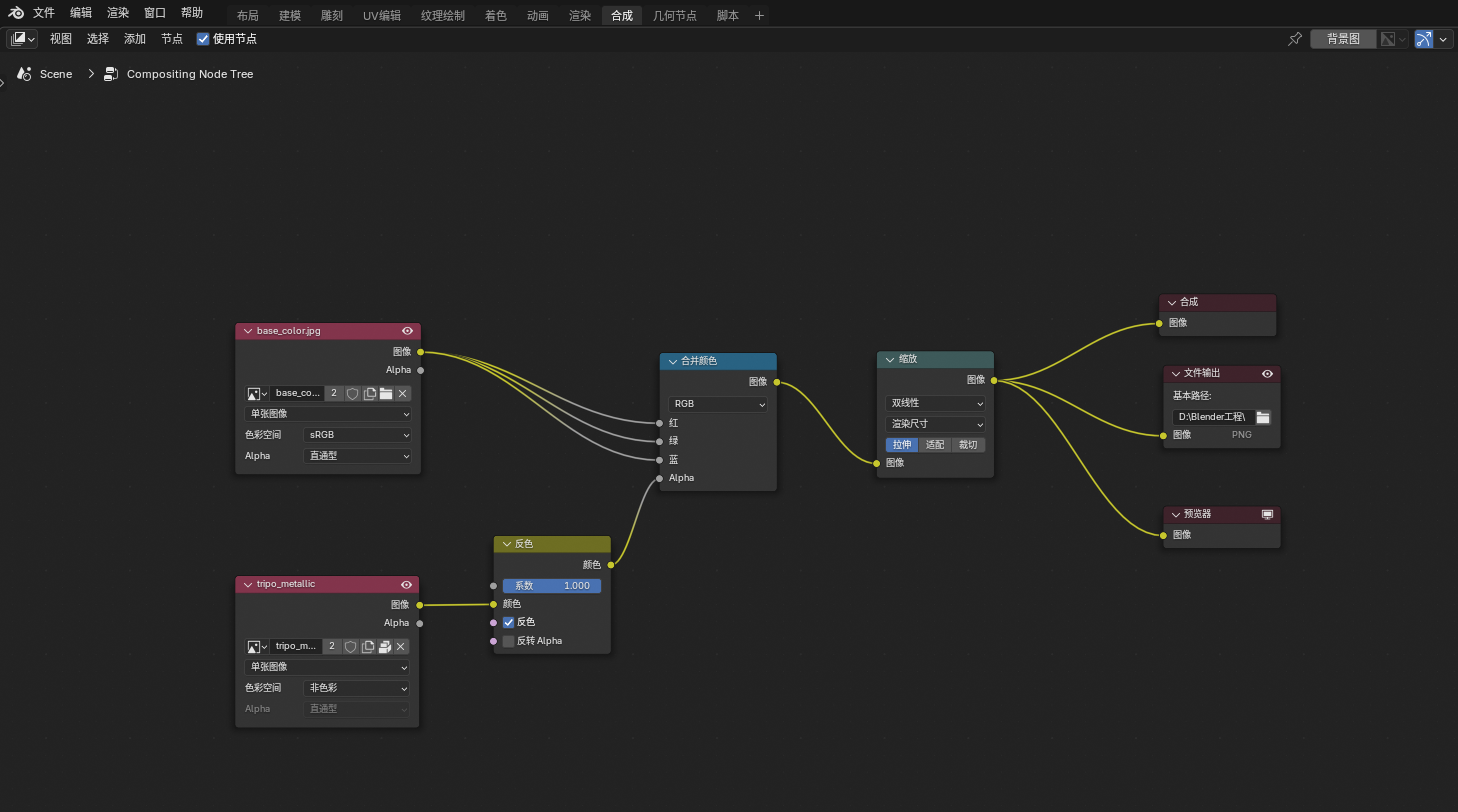
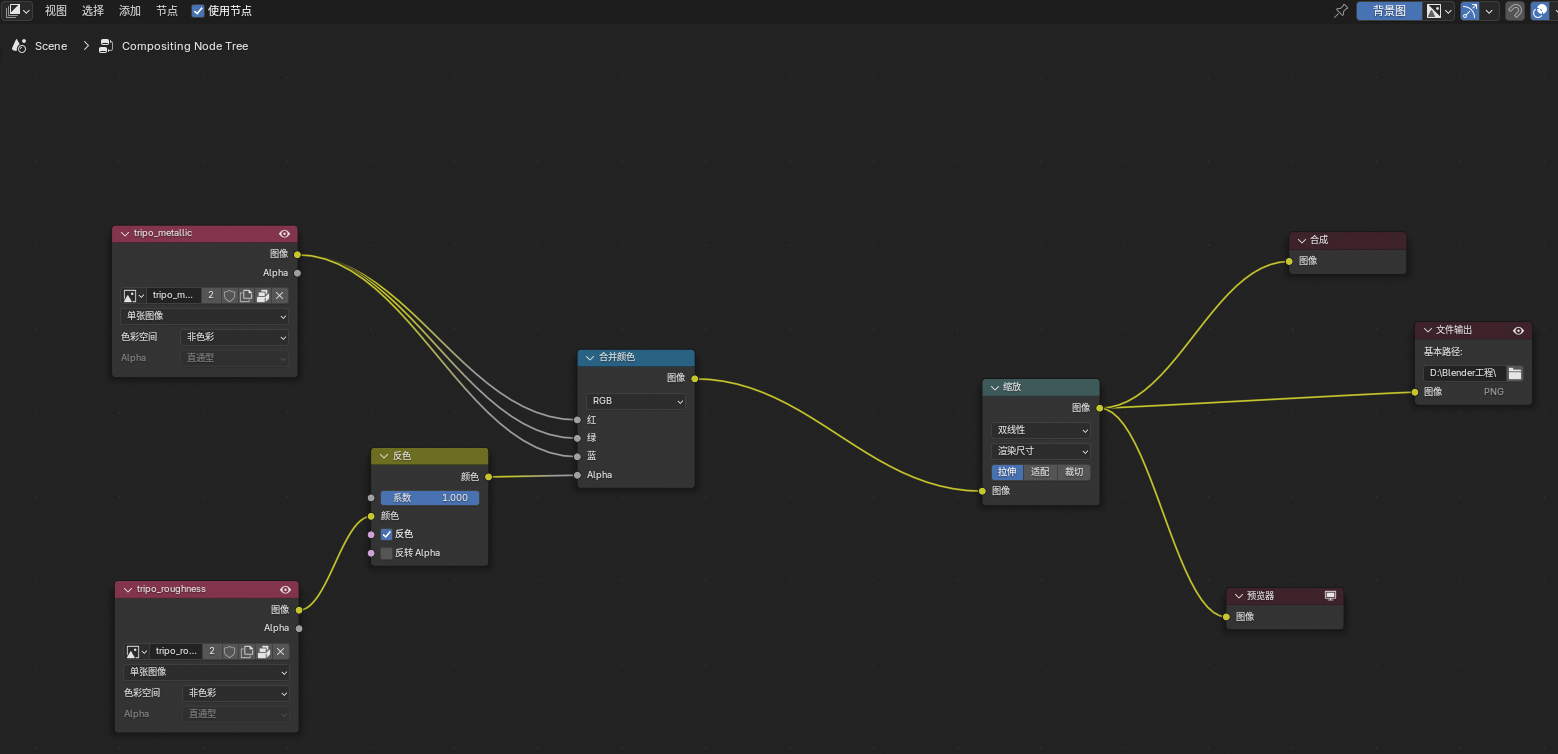
更新 引入AI辅助的3D美术工作流；

diff --git a/引入AI辅助的3D游戏美术工作流/引入AI辅助的3D游戏美术工作流.md b/引入AI辅助的3D游戏美术工作流/引入AI辅助的3D游戏美术工作流.md
@@ -1,8 +1,8 @@
 ## 3D游戏美术流程
 
-不同于其他类型的AI应用，3D内容的AI生成应用所面向的行业更加垂直，具有一定的专业使用门槛，并且生成的产物与直接投入生产环境的内容往往还存在一定的距离。笔者这里针对**3D游戏美术**流程，分享下在引入了AI生成后的美术工作流程。
+不同于其他类型的AI应用，3D内容的AI生成应用所面向的行业更加垂直，会有一定的专业使用门槛，并且生成的产物与直接投入生产环境的内容往往还存在一定的距离。笔者这里针对小型独立游戏/Demo的场景下，为提高3D游戏美术工作效率和降低成本，分享下在引入了AI生成后的美术工作流程。
 
-首先了解下在行业中一个比较主流的美术工作流，大致如下：
+首先回顾下在行业中一个比较主流的美术工作流，大致如下：
 
 ```markdown
 雕刻高模
@@ -22,7 +22,7 @@
 导入游戏引擎调试
 ```
 
-通常来说其中每个步骤所使用的DCC工具都是不一样的，甚至同一步骤都能有多种工具可以选 例如建模阶段的3D Max（硬表面物体）和Maya（角色/生物建模）等。考虑到学习成本和独立开发的效率，笔者选择了全流程制作都使用Blender。这也是许多独立开发者的选择，毕竟作为个人和小微团队来说，采用行业最佳实践的美术工作流并不现实。
+传统流程中每个环节依赖的DCC工具都是不一样的，甚至同一步骤都能有多种工具可以选 例如建模阶段的3D Max（硬表面物体）和Maya（角色/生物建模）等。考虑到学习成本和独立开发的效率，笔者选择了全流程制作都使用Blender。这也是许多独立开发者的选择，毕竟作为个人和小微团队来说，采用行业最佳实践的美术工作流并不现实。
 
 
 
@@ -37,7 +37,7 @@
 
 
 
-综合使用下来，混元3D和Tripo AI不管是在流程完整性还是生成内容的质量上，都是目前来看最好的。这两者还包括了组件拆分这一大多数竞品没有的功能支持。另外，腾讯混元3D中的3D Studio是完全针对游戏行业定制化的工作流，在前置流程上还可以衔接*腾讯混元游戏*（自家的另一个平台：https://hunyuan.tencent.com/game），提供了多种角色/道具/场景的概念设计工具。
+综合体验下来，混元3D和Tripo AI不管是在流程完整性还是生成内容的质量上，都是目前最佳的。二者均支持组件拆分这一大多数竞品没有的功能。另外，腾讯混元3D中的3D Studio是完全针对游戏行业定制化的工作流，在前置流程上还可以衔接*腾讯混元游戏*（自家的另一个平台：https://hunyuan.tencent.com/game），提供了多种角色/道具/场景的概念设计工具。
 
 笔者在挺久之前就有关注到腾讯混元3D并且挺看好的，但它一直没有进行商业化，目前每天只能获取非常少的固定生成次数来在平台内使用；而且3D Studio是需要单独去申请内测资格后才能使用的，生成的内容会有版权归属的问题。最终决定使用Tripo AI来辅助笔者3D美术工作。
 
@@ -45,11 +45,11 @@
 
 ## AI工具实践
 
-首先需要准备好一张设计图；这一步的手段是非常的丰富的，手绘、外包画稿、疑惑是文生图/图生图等AI生成方式。笔者这里的例子是使用的之前自己手绘+AI融图出来的一张外星怪物设计图。打开Tripo AI的3D工作台，右侧面板中上传图片（为了提高生成的准确性，最好用多视图生成）：
+首先需要准备好一张设计图；这一步的手段是非常的丰富的，手绘、外包稿件、亦或是文生图/图生图等AI生成方式。本文这里的例子是使用的之前自己手绘+AI融图出来的一张外星怪物设计图。打开Tripo AI的3D工作台，右侧面板中上传图片（为了提高生成的准确性，最好用多视图生成）：
 
 <img src="./prepareImg.png" alt="prepareImg" style="zoom:67%;" />
 
-同时设置生成模型的参数。高清纹理和PBR属于鸡肋特性，开启与否都行，因为AI生成的纹理质量肯定是无法投入生产使用的。重要的参数是拓扑设置中的拓扑面和面数控制；其中的智能低模是Tripo新出的特性，笔者目前还未试用过。
+同时设置生成模型的参数。高清纹理和PBR属于鸡肋特性，开启与否都行，因为AI生成的纹理质量肯定是无法投入生产使用的。重要的参数是拓扑设置中的拓扑面和面数控制；其中的智能低模是Tripo新出的特性，笔者还尚未试用过。
 
 <img src="./generate-params.png" alt="image-20260203224449936" style="zoom:80%;" />
 
@@ -75,17 +75,17 @@
 
 新建Blender工程，将刚刚由Tripo AI导出的`FBX`文件导入进来。
 
-在白模中首先检查下是否有破面、面朝向异常等问题：<img src="./check-normal.png" alt="check-normal" style="zoom: 67%;" />
+在白模中首先检查下模型完整性，是否有破面、面朝向异常等问题：<img src="./check-normal.png" alt="check-normal" style="zoom: 67%;" />
 
-笔者导出的这个模型的尾巴处存在几片法向异常的面*<font color="gray">（4.x版本后只会对异常法向的面标红色）</font>*。
+笔者导出的这个模型的尾巴处存在几片法线异常的面*<font color="gray">（4.x版本后只会对异常法向的面标红色）</font>*。
 
 接着切换到UV编辑，看下UV展的效果：
 
 <img src="./unwrap-uv.png" style="zoom: 50%;" />
 
-依旧稀碎......这拆的甚至还不如Blender内置的智能UV。考虑到后续的可维护性，最好还是调整下布线重新拆UV。
+依旧稀碎......这拆的甚至还不如Blender自带的智能UV。考虑到后续的可维护性，建议还是调整下布线重新拆UV。
 
-调整完后到着色器界面中将各个贴图依次重新烘焙出来以适配新的UV。最好再把贴图都输出到本地作为外部图像引用：
+调整完后到着色器界面中基于新UV重新烘焙出法线、颜色等贴图。最好再把贴图都输出到本地作为外部图像引用：
 
 <img src="./BSDF.png" alt="BSDF" style="zoom:50%;" />
 
@@ -97,16 +97,37 @@
 
 <img src="./urp-inspector.png" alt="urp-inspector" style="zoom: 50%; display: inline-block;" /><img src="./rougness-des.png" alt="rougness-des" style="zoom: 50%; display: inline-block;" />
 
-所以需要将着色材质中的金属度和粗糙度贴图进行通道合并。该步骤就是简单的图像操作，既可在PS这种软件中操作也可以在Blender的合成器中操作。笔者建议图像操作也都可以放在Blender中处理；不仅无需切换工作软件，而且合成器这一基于节点编辑器构建的工作流在后期维护也方便得多，随时修改材质贴图后能自动化完成转换贴图的工作：
+所以需要将着色材质中的金属度和粗糙度贴图进行通道合并。该步骤就是简单的图像操作，既可在PS这种软件中操作也可以在Blender的合成器中操作。笔者建议图像操作也都可以放在Blender中处理；不仅无需切换工作软件，而且合成器这一基于节点编辑器构建的工作流在后期维护也方便得多，随时修改材质贴图后都能自动化完成转换贴图的工作：
 
 <img src="./composition.png" alt="composition" style="zoom:67%;" />
 
 至此模型的静态部分完成。
 
-还剩下骨骼制作、绑定和动画的工作了，这几块就需要完全由自己动手了。智能绑骨和动画目前还未找到可用的AI工具，尤其是非人形的生物。如果是人形的动画，可以借助Mixamo网站，这一免费动画平台对于小项目而言也足够了。
+还剩下骨骼制作、绑定和动画的工作了，这几块就需要完全由自己动手了。智能绑骨和骨骼动画目前还未找到可用的AI工具，尤其是非人形的生物模型。如果是人形的动画，其实可以借助Mixamo网站来完成动画工作，这一免费动画平台对于小项目而言也足够了。
 
-![animation](./animation.png)*<font color="gray">制作一个行走和死亡动画</font>*
+<img src="./animation.png" alt="animation" style="zoom: 67%;" />
+*<font color="gray">制作一个行走和死亡动画</font>*
 
 
 
 ## 导入游戏引擎
+
+完成了Blender中的工作后将怪物模型以`.fbx`的格式导出；导出时带上骨骼与动画相关的信息。
+
+在Unity编辑器中导入刚刚的`.fbx`和贴图文件。在面板中检查骨骼类型和动画资源是否正常：
+
+
+
+<img src="./animation-inspector.png" alt="animation-inspector" style="zoom:80%;" />
+
+将材质暴露出来：
+
+<img src="./extract-material.png" alt="extract-material" style="zoom:80%;" />
+
+为材质赋予各个贴图后，创建`Animator`和测试脚本：
+
+<img src="./unity-asset.png" alt="unity-asset" style="zoom: 50%;" />
+
+最后在场景中查看运行效果。
+
+![run-demo](./run-demo.gif)
